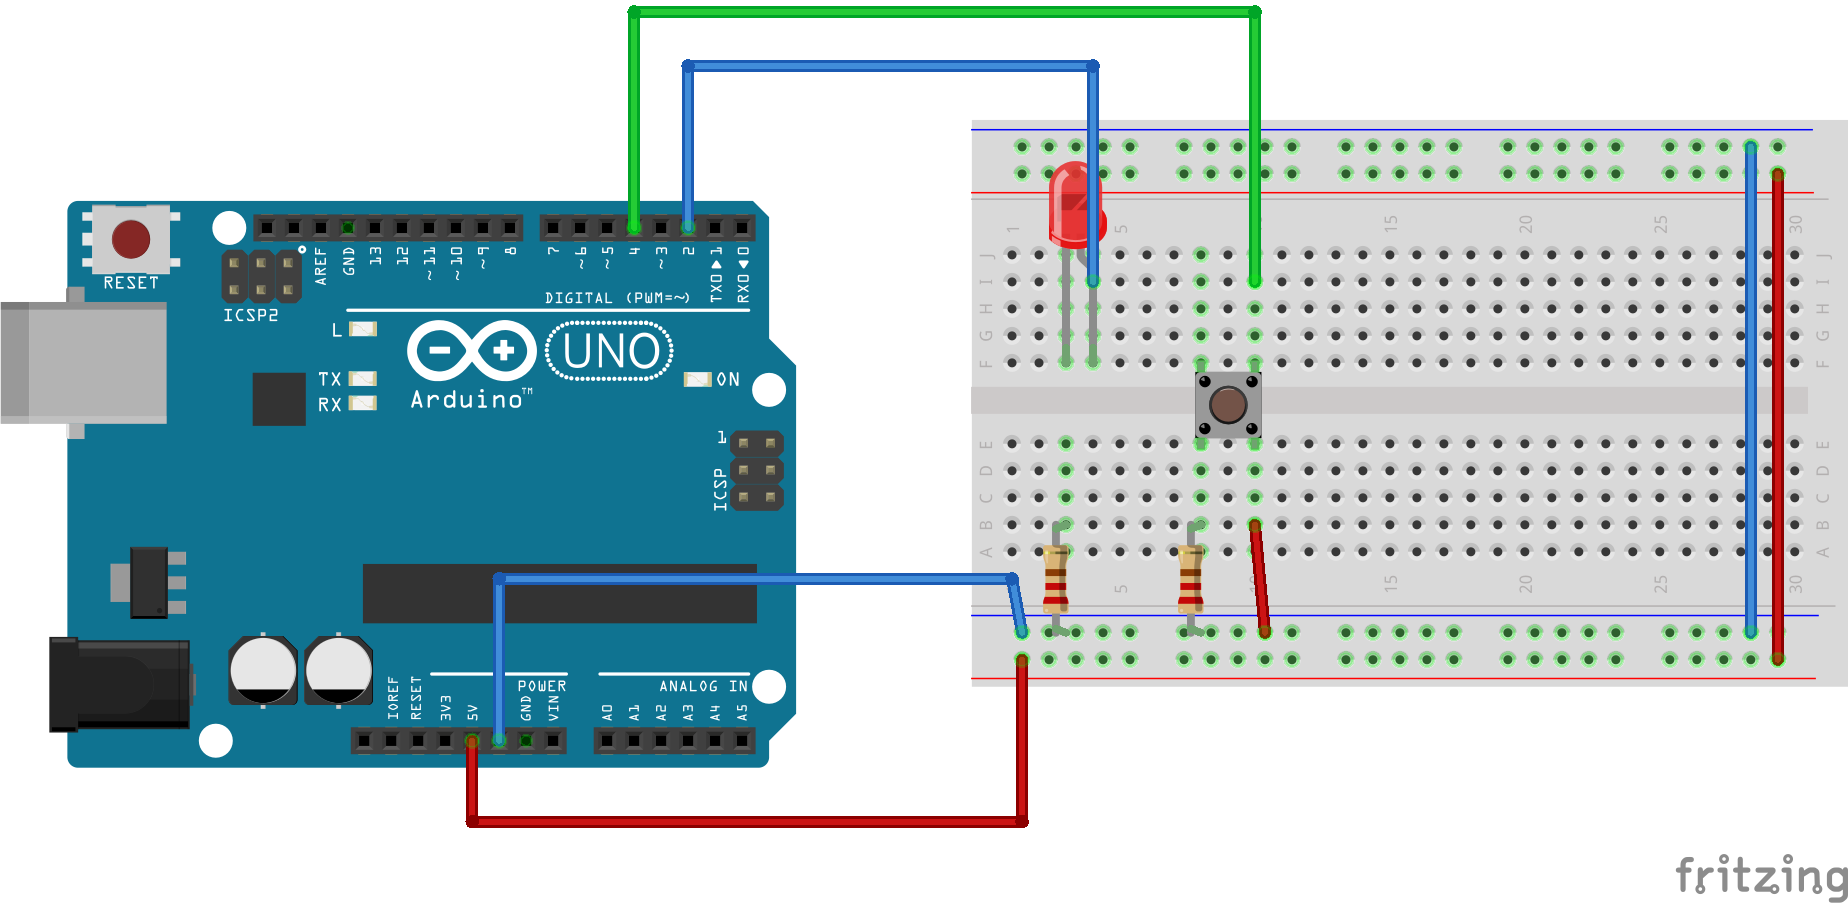
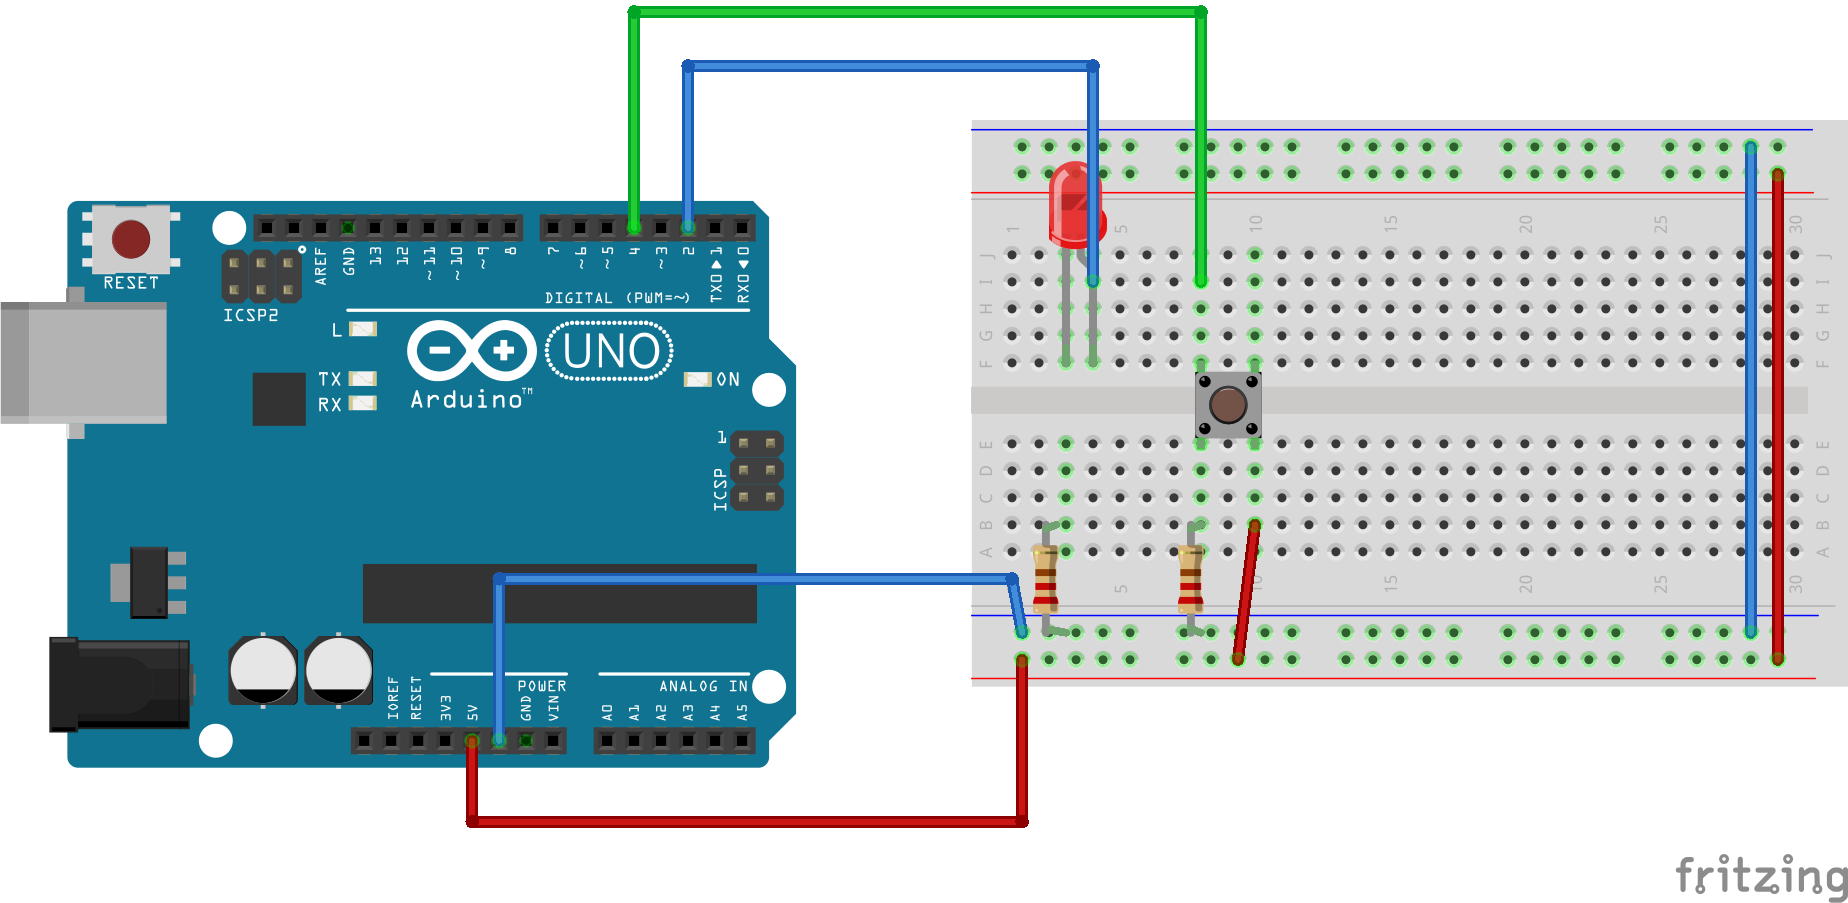
WIP

Changed region(s): [[0.6477, 0.0, 0.7094, 0.3411], [0.6477, 0.5891, 0.7094, 0.7442], [0.5552, 0.5581, 0.586, 0.7132]]

diff --git a/README.md b/README.md
@@ -50,8 +50,8 @@ Det första vi testar är om vi kan blinka en lysdiod med hjälp av datorn.
 Ett arduino-program består av två delar: En del som sätter i ordning saker
 när datorn startas; ```setup()```, och en slinga som körs om och om igen; `loop()`.
 
-För ändra spänningen på en pinne skriver vi till den: `digitalRead(_pinne_, _värde_)`. För att göra det lite
-enklare för oss att läsa kallar vi pinnen för RED (#define).
+För ändra spänningen på en pinne skriver vi till den: `digitalWrite(_pinne_, _värde_)`. För att göra det lite
+enklare för oss att läsa vår egen kod kallar vi pinnen för RED (#define).
 
 ```ino
 #define RED 2
@@ -69,11 +69,19 @@ void loop() {
 
 ```
 
+
 ### är knappen intryckt? -- IN
 
-![Krets med arduino, breadboard, lysdiod och knapp][diod]
+När knappen är öppen så kommer pinnen att vara kopplad via knappen och resistorn till
+`GND`, och alltså läsas ut `LOW`. När knappen stängs så kommer den vara kopplad till `5V`. Den är samtidigt
+kopplad till `GND`, men eftersom det är ett motstånd emellan så kommer `5V` att lyfta upp den.
 
-[diodknapp]: kretsar/blinka-diod_bb.png "Krets med arduino, breadboard, lysdiod och knapp"
+I programmet så vill vi läsa om pinnen för knappen (som vi kallar `BUTTON`) är `HIGH` eller `LOW`. Vi sparar svaret i en variabel (en låda) som vi kallar `button`.
+Om `button` är `HIGH` så tänder vi lampan, väntar, släcker den, väntar. Om den är `LOW` låter vi lampan vara.
+
+![Krets med arduino, breadboard, lysdiod och knapp][diodknapp]
+
+[diodknapp]: kretsar/diod-knapp.png "Krets med arduino, breadboard, lysdiod och knapp"
 
 ```ino
 #define RED 2
@@ -93,24 +101,90 @@ void loop() {
     digitalWrite(RED,LOW);
     delay(100);
   } else {
-    digitalWrite(BLUE,HIGH);
-    delay(100);
-    digitalWrite(BLUE,LOW);
-    delay(100);
+    delay(200);
   }
 }
-
 ```
+Kan vi blinka med flera lysdioder?
+
 ## hur ljust är det?
 
-## tänd en lampa om det är mörkt
+En fotoresistor är ett motstånd vars motstånd beror på hur ljust det är. Om vi har flera
+resistanser i serie så kommer spänningen vi lägger på att fördela sig i proportion till
+resistanserna. Alltså, om vi har två stycken 220 Ω-motstånd i serie och lägger på 5 V spänning
+så kommer 2,5 V att ligga över vardera. Det kallas spänningsdelning och det kan vi använda för
+att för att jämför motståndet hos fotoresistorn med en känd resistans.
+
+
+
+![Krets med arduino, breadboard, lysdiod och fotoresistor][fotoresistor]
+
+[fotoresistor]: kretsar/fotoresistor-diod.png "Krets med arduino, breadboard, fotoresistor och knapp"
+
+`digitalRead` läser bara ut om en pinne är `HIGH` eller `LOW`. Om vi vill läsa utan en kontinuerlig skala (0 till 1023)
+så använder vi `analogRead`. Vi måste också använda en analog pinne.
+
+Vi kan skriva saker på "konsolen" (`Serial`). Det är jättepraktiskt om vi till exempel vill veta
+vilka värden som vi läser ut från fotoresistorn. För att se konsolen, välj "Monitor" i utvecklingsmiljö.
+
+
+```ino
+#define RED 5
+#define PHOTO 0
+int light = 0;
+void setup() {
+   Serial.begin (9600);
+   pinMode(RED, OUTPUT);
+}
+
+void  loop(){
+        light = analogRead(PHOTO); // high values for bright environment
+        Serial.println(light, DEC);
+
+        if(light>250){
+          digitalWrite(YELLOW,HIGH);
+        } else {
+          digitalWrite(YELLOW,LOW);
+        }
+}
+```
 
 ## spela en stege när vi trycker på knappen
+
+
 
 ![Krets med arduino, breadboard, knapp och buzzer][buzzer]
 
 [buzzer]: kretsar/buzzer.png "Krets med arduino, breadboard, knapp och buzzer"
 
+```ino
+#define BUTTON 2
+#define BUZZER 8
+
+int button = LOW;
+int note=440;
+double step=1.0594630943592952646;
+void setup() {
+   Serial.begin (9600);
+   pinMode(BUTTON, INPUT);
+}
+
+void  loop(){
+        button=digitalRead(BUTTON);
+        if(button  == HIGH){
+          tone(BUZZER,note);
+          note=note*step;
+        }else{
+          noTone(BUZZER);
+          note=440;
+        }
+        delay(1000);
+}
+```
+
+Om man har flera knappar, kan man bygga ett piano då?
+
+Lite knepigare: Kan man göra olika saker varje gång man trycker på knappen?
 
 ## motor och avståndsmätare: vi bygger en robot
 
